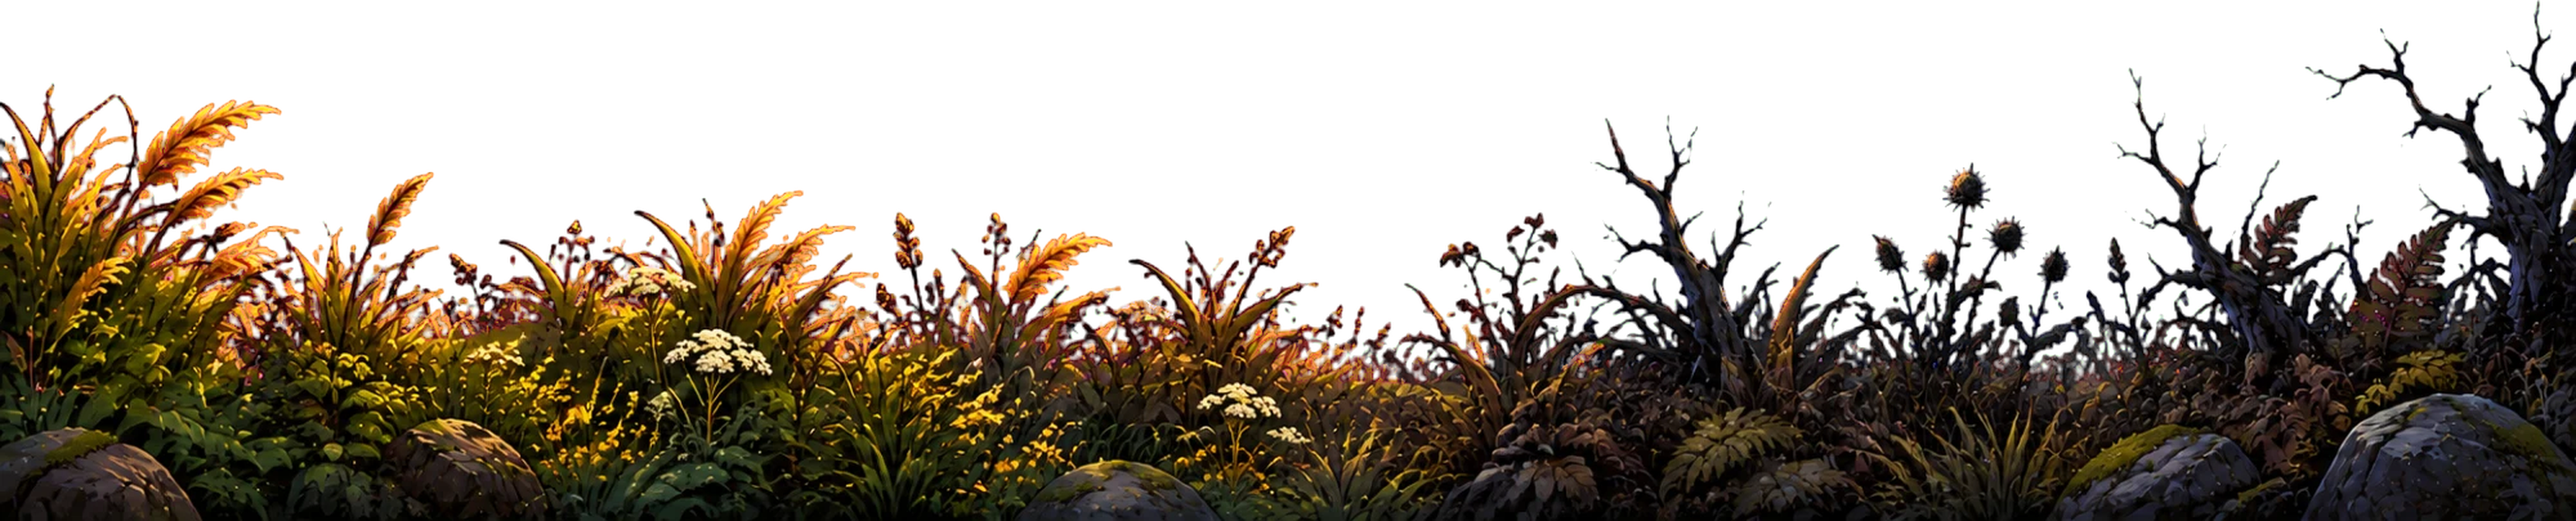
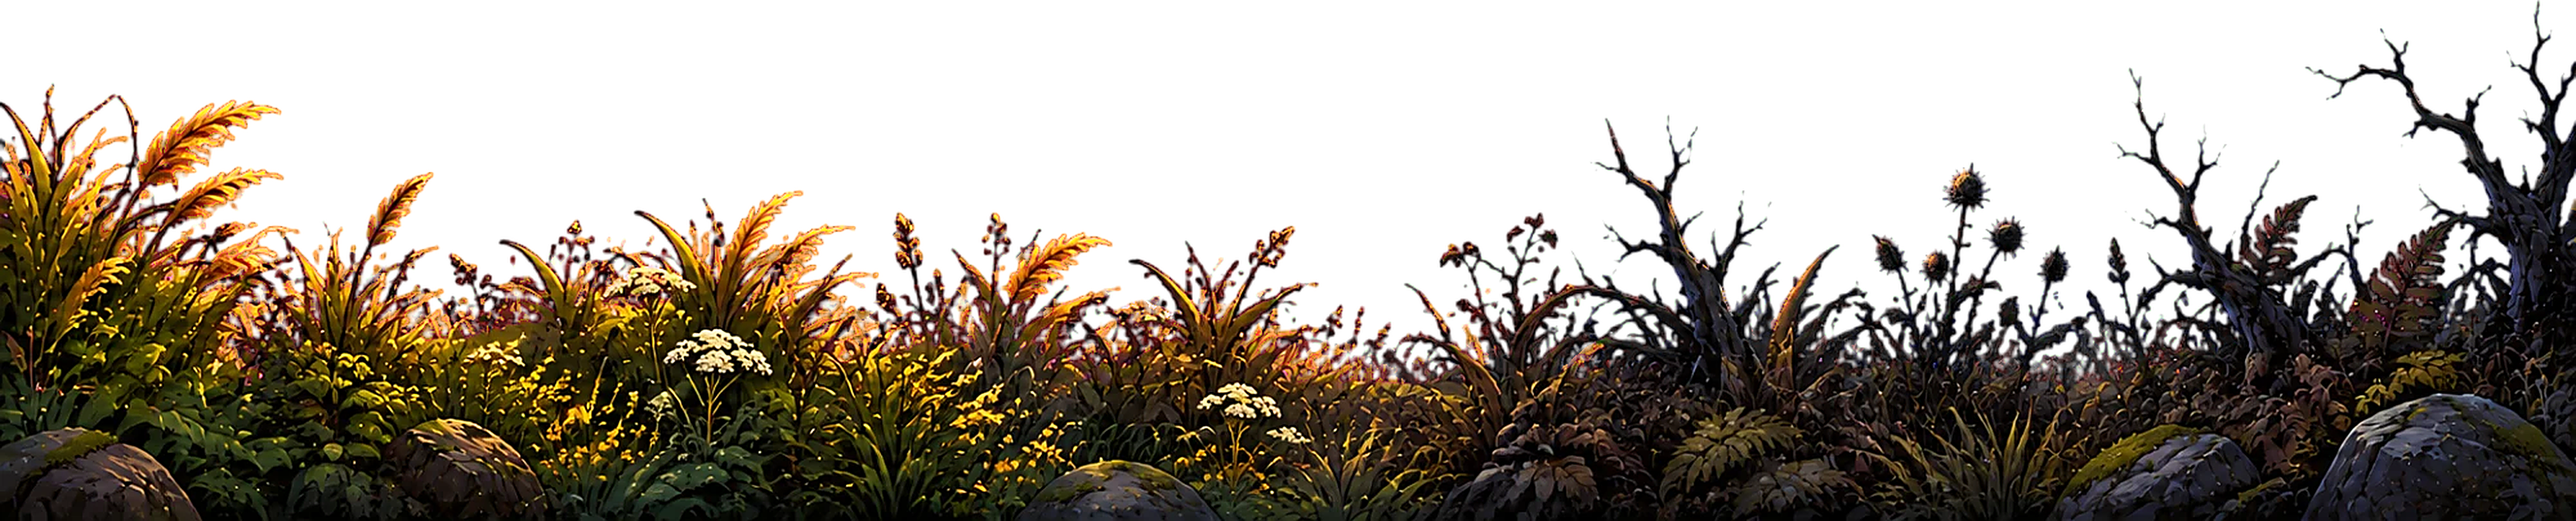
Битва легенд 2.6: парирование; правки арены
- парирование как в SF3: тап «вперёд» за ≤6 кадров до удара, попытка не чаще раза в 20 кадров
- парированный атакующий ошеломлён на 32 кадра (хватает на комбо), снаряды гаснут, +60 шкалы
- синяя вспышка, «ПАРИРОВАНИЕ!», звёздочки над ошеломлённым
- пробуждение решено не делать (GDD, PLAN)
- арена: у туч снят контур, камень утоплен в дорогу с тенью, полосы фона резче; промпты туч и леса обновлены

Claude-Session: https://claude.ai/code/session_01XXCj5USGvqBwGBQWYjNQyR

diff --git a/bitva-legend/tools/process_arena_art.py b/bitva-legend/tools/process_arena_art.py
@@ -14,7 +14,7 @@ import sys
 from pathlib import Path
 
 import numpy as np
-from PIL import Image
+from PIL import Image, ImageFilter
 
 OUT = Path(__file__).resolve().parent.parent / "game" / "art" / "arena"
 KEY = np.array([255, 0, 255], dtype=np.float32)
@@ -84,6 +84,30 @@ def _bleed_inside_color(fg: np.ndarray, alpha: np.ndarray, steps: int = 4) -> np
         col[new] = acc[new] / cnt[new][:, None]
         known = known | new
     return col
+
+
+def strip_outline(img: Image.Image, band: int = 7, luma_max: float = 120.0) -> Image.Image:
+    """Убрать тёмный контур по краю (тучи без обводки): тёмные пиксели у края становятся прозрачными,
+    край смягчается."""
+    a = np.asarray(img).astype(np.float32)
+    alpha = a[..., 3] / 255.0
+    luma = a[..., 0] * 0.3 + a[..., 1] * 0.59 + a[..., 2] * 0.11
+    near_edge = _dilate(alpha < 0.99, band)
+    dark = near_edge & (luma < luma_max)
+    alpha = np.where(dark, 0.0, alpha)
+    # Мягкий край: полупрозрачная кромка в 1 px.
+    soft = _dilate(alpha < 0.5, 1) & (alpha >= 0.5)
+    alpha = np.where(soft, alpha * 0.55, alpha)
+    a[..., 3] = alpha * 255
+    return Image.fromarray(a.astype(np.uint8), "RGBA")
+
+
+def sharpen(img: Image.Image) -> Image.Image:
+    """Чуть резче (нейросеть даёт мягкие текстуры); прозрачность не трогаем."""
+    rgb = img.convert("RGB").filter(ImageFilter.UnsharpMask(radius=2, percent=90, threshold=2))
+    out = rgb.convert("RGBA")
+    out.putalpha(img.getchannel("A"))
+    return out
 
 
 def _dilate(mask: np.ndarray, r: int) -> np.ndarray:
@@ -212,13 +236,13 @@ def main() -> int:
         done += 1
     for name, width in STRIP_WIDTH.items():
         if p := find(src, name):
-            save(resize_w(trim_vertical(chroma_key(Image.open(p))), width), name)
+            save(sharpen(resize_w(trim_vertical(chroma_key(Image.open(p))), width)), name)
             done += 1
     if p := find(src, "stone"):
         save(resize_h(trim(chroma_key(Image.open(p))), STONE_HEIGHT), "stone")
         done += 1
     if p := find(src, "clouds"):
-        for i, cloud in enumerate(split_objects(chroma_key(Image.open(p))), 1):
+        for i, cloud in enumerate(split_objects(strip_outline(chroma_key(Image.open(p)))), 1):
             if cloud.width > CLOUD_MAX_WIDTH:
                 cloud = resize_w(cloud, CLOUD_MAX_WIDTH)
             save(cloud, f"cloud_{i}")

diff --git a/bitva-legend/docs/ART_ARENA.md b/bitva-legend/docs/ART_ARENA.md
@@ -56,7 +56,7 @@ A single big full moon, 2D game asset. HD hand-painted cartoon style, clean dark
 ### 3. Тучи — `clouds` (21:9, сетка 3×2)
 
 ```
-Sprite sheet of 6 separate fluffy cartoon clouds arranged in a neat 3 columns × 2 rows grid, each cloud centered in its own cell with clear empty space around it, no cloud touches another or the image edge. 2D fighting game stage asset, HD hand-painted cartoon style, clean dark-plum outlines (#24141F), soft cel shading. Clouds are NEUTRAL light grey-white with soft lavender-grey shadows on the bottom (the game will tint them warm or cold), lit from the upper left. Different shapes: 2 long flat stretched clouds, 2 medium puffy cumulus clouds, 2 small wispy clouds. Background: perfectly flat solid magenta #FF00FF, no gradient, no shadow, no texture. Do not use pink or purple on the clouds. NO text, NO watermark, NO grid lines, NO frame.
+Sprite sheet of 6 separate fluffy cartoon clouds arranged in a neat 3 columns × 2 rows grid, each cloud centered in its own cell with clear empty space around it, no cloud touches another or the image edge. 2D fighting game stage asset, HD hand-painted cartoon style, soft painterly cel shading, NO outlines at all (no dark contour line around the clouds, edges defined only by light and shadow). Clouds are NEUTRAL light grey-white with soft lavender-grey shadows on the bottom (the game will tint them warm or cold), lit from the upper left. Different shapes: 2 long flat stretched clouds, 2 medium puffy cumulus clouds, 2 small wispy clouds. Background: perfectly flat solid magenta #FF00FF, no gradient, no shadow, no texture. Do not use pink or purple on the clouds. NO text, NO watermark, NO grid lines, NO frame.
 ```
 
 ### 4. Дальние горы — `mountains` (21:9)
@@ -74,7 +74,7 @@ Sprite sheet of a flight animation cycle: the SAME cartoon raven drawn 6 times i
 ### 6. Лес — `forest` (21:9)
 
 ```
-Wide horizontal strip of trees for a 2D fighting game parallax layer (middle distance, behind the fighters). HD hand-painted cartoon style, clean dark-plum outlines (#24141F), cel shading with soft gradients, medium-low contrast so the fighters in front stay readable. Strict side view, all tree trunks stand on one flat horizontal ground line at the very bottom edge. The trees span the FULL width edge to edge, tallest trees reach about 70% of the image height, with gaps between groups. LEFT half: warm Russian birch grove and a mighty old oak at sunset — white birch trunks with black marks, golden-green foliage (#6E8B3D, #F2B45A). RIGHT half: twisted leafless gothic trees with crooked claw-like branches, dark violet bark (#2A1838) with cold moonlight rim light (#E8E4D8). In the middle the birches gradually turn into dead trees. Everything around the trees is perfectly flat solid magenta #FF00FF (no sky, no ground, no gradient, no shadow). Do not use pink or purple on the trees. NO characters, NO animals, NO text, NO watermark, NO frame.
+Wide horizontal strip of trees for a 2D fighting game parallax layer (middle distance, behind the fighters). Generate in 4K. HD hand-painted cartoon style, clean dark-plum outlines (#24141F), cel shading with soft gradients, CRISP SHARP details: clearly defined leaf clusters, bark texture and branch silhouettes, no blur, no soft focus, no depth of field, no painterly smudging, medium-low contrast so the fighters in front stay readable. Strict side view, all tree trunks stand on one flat horizontal ground line at the very bottom edge. The trees span the FULL width edge to edge, tallest trees reach about 70% of the image height, with gaps between groups. LEFT half: warm Russian birch grove and a mighty old oak at sunset — white birch trunks with black marks, golden-green foliage (#6E8B3D, #F2B45A). RIGHT half: twisted leafless gothic trees with crooked claw-like branches, dark violet bark (#2A1838) with cold moonlight rim light (#E8E4D8). In the middle the birches gradually turn into dead trees. Everything around the trees is perfectly flat solid magenta #FF00FF (no sky, no ground, no gradient, no shadow). Do not use pink or purple on the trees. NO characters, NO animals, NO text, NO watermark, NO frame.
 ```
 
 ### 7. Камень на перепутье — `stone` (3:4)
@@ -102,6 +102,9 @@ Wide horizontal strip of foreground vegetation for a 2D fighting game, it will b
 | все 9 слоёв | ✅ в игре (2.5.3). Исходники — `art_src/arena/` (первый вариант леса — `old_forest_v1.webp`) |
 
 Заметки по полученному:
+- 2.6: у туч контур снимается скриптом (`strip_outline`), камень утоплен в дорогу и отбрасывает тень,
+  полосы (горы, лес, передний план) скрипт делает чуть резче. Промпты туч (без контура) и леса (чётко, 4K)
+  обновлены выше — если перегенерировать, станет ещё лучше.
 - Лес перегенерирован ниже (деревья на половину высоты) — так над бойцами больше неба.
 - Кадры ворона выравниваются по жёлтому глазу, чтобы тело не дрожало между кадрами.
 - Земля сжата по высоте до 60%, передний план опущен: видны только верхушки травы перед ногами бойцов.

diff --git a/bitva-legend/docs/GDD.md b/bitva-legend/docs/GDD.md
@@ -49,10 +49,6 @@
 - **Илья — «Удар с небес»:** прыжок выше облаков и падение с палицей, кратер в земле.
 - **Дракула — «Кровавая луна»:** экран темнеет, восходит красная луна, серия молниеносных ударов во тьме.
 
-### Пробуждение (один раз за матч, при низком здоровье)
-- **Илья — «Богатырская сила»:** усиленный урон, броня на обычных ударах.
-- **Дракула — «Истинный облик»:** быстрее, укус лечит сильнее, летучие мыши самонаводятся.
-
 ### Добивания (эпично-комичные, без крови, 12+)
 - **Илья:** отправляет Дракулу палицей «за горизонт» — звёздочка в небе.
 - **Дракула:** превращает Илью в недоумевающую летучую мышь, которая улетает.
@@ -60,9 +56,12 @@
 ## Боевая система
 - **Кнопки (раскладка SNK):** лёгкий удар рукой, лёгкий ногой, сильный рукой, сильный ногой.
 - **Блок:** отдельной кнопкой, как в MK. Стоя — верхний, в приседе — нижний.
-- **Парирование:** нажать блок точно в момент удара (окно в несколько кадров).
-  Урон не проходит, у парировавшего — окно для контратаки. *Это адаптация парирования
-  из SF3 под блок-кнопку; согласовать после первого теста.*
+- **Парирование (как в SF3):** тап «вперёд» (нажать, не держать) не раньше чем за 6 кадров до попадания.
+  Парируется всё: высокие, низкие, удары в прыжке, снаряды, суперприёмы. Урона нет, парировавший сразу свободен
+  и получает немного шкалы. Атакующий врукопашную ошеломлён на ~0,5 с — хватает на полное комбо;
+  снаряд просто гаснет. Следующая попытка — не раньше чем через 20 кадров (долбить «вперёд» бесполезно).
+  Ошибся с моментом — получил удар.
+- **Пробуждения нет** (решено в 2.6).
 - **Броски:** ЛР вплотную. Можно вырваться — вовремя нажать ЛР в ответ.
 - **Передвижение:** ходьба, бег (двойное нажатие «вперёд»), отскок назад (двойное «назад»),
   прыжки, присед.

diff --git a/README.md b/README.md
@@ -2,6 +2,6 @@
 
 | Папка | Игра | Статус |
 |---|---|---|
-| [`bitva-legend/`](bitva-legend/) | **Битва легенд** (Clash of Legends) — 2D-файтинг на Godot: светлые силы против тёмных из мифов и легенд | В разработке, подэтап 2.5 |
+| [`bitva-legend/`](bitva-legend/) | **Битва легенд** (Clash of Legends) — 2D-файтинг на Godot: светлые силы против тёмных из мифов и легенд | В разработке, подэтап 2.6 |
 
 Каждая игра лежит в своей папке со своими документами (`docs/`), исходниками и скриптами сборки (`tools/`).
